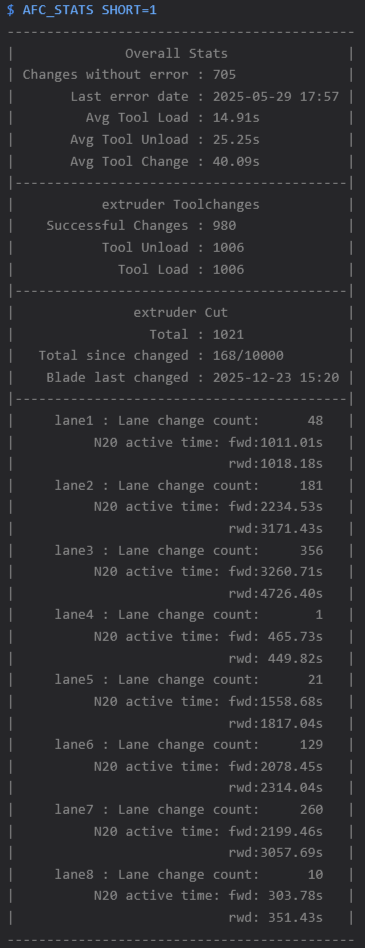
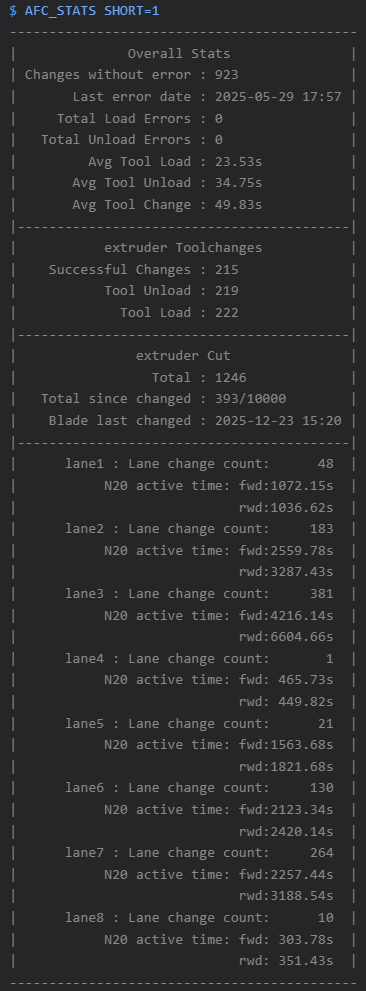
Updates to afc stats section - Updated wording in stats tracking section to include tracking errors for loading/unloading. - Updating pictures to include error tracking per load/unload

Changed region(s): [[0.0, 0.0, 0.9945, 0.9789], [0.9342, 0.7036, 0.9945, 0.9789], [0.9342, 0.5506, 0.9945, 0.7036]]

diff --git a/docs/features.md b/docs/features.md
@@ -268,7 +268,7 @@ Speed for quiet mode can be updated by setting `quiet_moves_speed` variable in e
 
 ## Tracking Toolchange Statistics
 
-AFC tracks all toolchanges, lane loading/unloading, number of changes since last load error, total number
+AFC tracks all toolchanges, lane loading/unloading, number of changes since last load error, number of errors that happend while unloading or loading, total number
 of cuts performed, number of cuts since blade last changed and how long N20 motors have been active if
 N20 are configured in your setup.  
 
